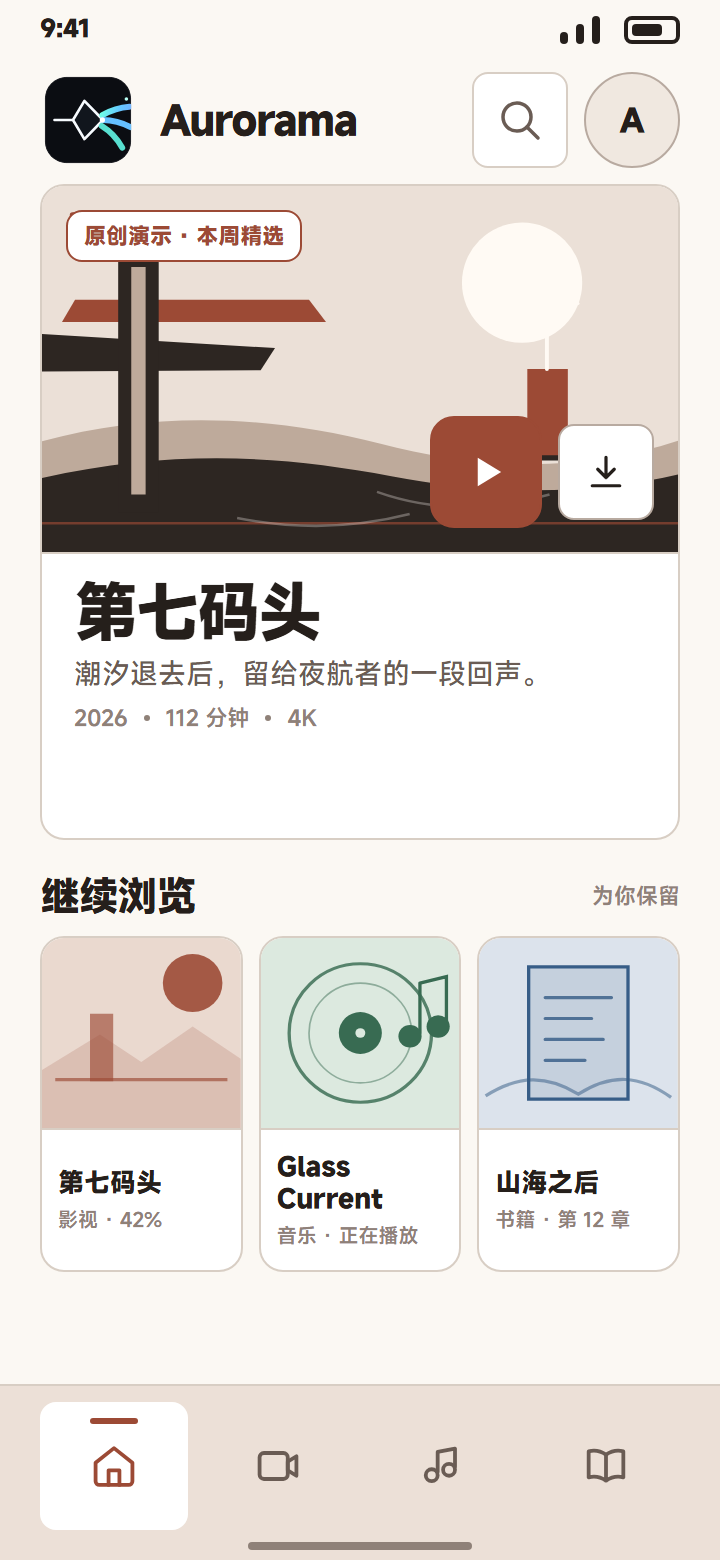
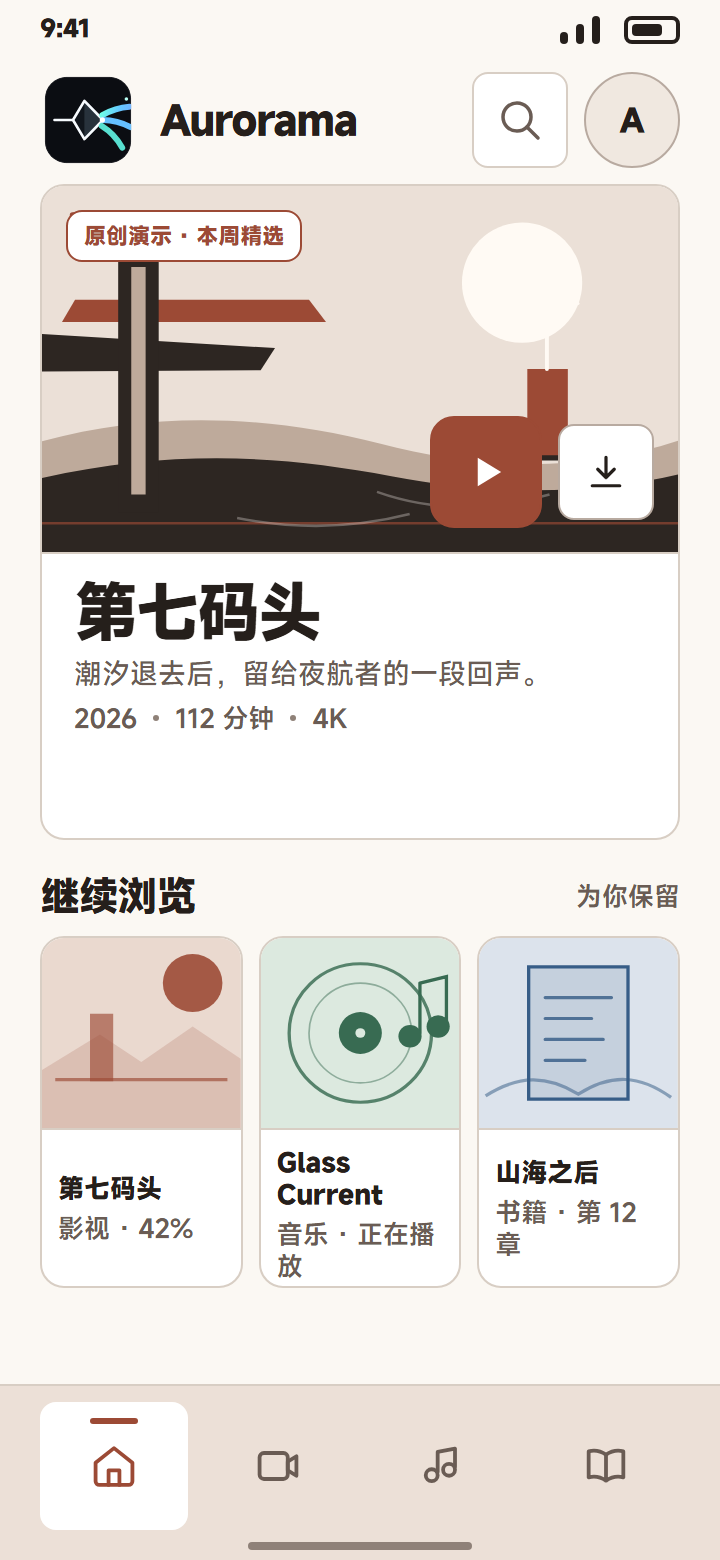
fix(v2-ux): resolve second visual qa findings

diff --git a/docs/design/v2-theme-frames/index.html b/docs/design/v2-theme-frames/index.html
@@ -56,6 +56,7 @@
       --text: #f2f5f9;
       --text-2: #98a2b3;
       --text-3: #6b7483;
+      --phone-nav-inactive: var(--text-2);
       --line: rgba(255, 255, 255, .085);
       --line-strong: rgba(255, 255, 255, .16);
       --accent: #5ce1d2;
@@ -237,6 +238,7 @@
       --text: #111317;
       --text-2: #4f5358;
       --text-3: #777b7e;
+      --phone-nav-inactive: #aeb3b8;
       --line: #111317;
       --line-strong: #111317;
       --accent: #c23c1c;
@@ -789,7 +791,10 @@
     }
 
     html[data-theme="nocturne"] .hero-title {
-      font-style: italic;
+      font-family: var(--font-sans);
+      font-style: normal;
+      font-weight: 700;
+      letter-spacing: -.04em;
     }
 
     .hero-description {
@@ -1769,8 +1774,8 @@
       align-items: center;
       gap: 8px;
       margin-top: 4px;
-      color: var(--text-3);
-      font-size: 11px;
+      color: var(--text-2);
+      font-size: 13px;
       line-height: 16px;
       font-weight: 500;
       white-space: nowrap;
@@ -1800,14 +1805,14 @@
     }
 
     .phone-section-head span {
-      color: var(--text-3);
-      font-size: 11px;
+      color: var(--text-2);
+      font-size: 13px;
       line-height: 16px;
       font-weight: 500;
     }
 
     .phone-media-row {
-      height: 168px;
+      height: 176px;
       display: grid;
       grid-template-columns: repeat(3, minmax(0, 1fr));
       gap: 8px;
@@ -1816,9 +1821,9 @@
 
     .phone-media-card {
       width: auto;
-      height: 168px;
+      height: 176px;
       min-width: 0;
-      min-height: 168px;
+      min-height: 176px;
       display: flex;
       flex-direction: column;
       overflow: hidden;
@@ -1871,15 +1876,15 @@
     }
 
     .phone-media-copy span {
-      display: block;
+      display: -webkit-box;
       overflow: hidden;
       margin-top: 4px;
-      color: var(--text-3);
-      font-size: 10px;
-      line-height: 14px;
+      color: var(--text-2);
+      font-size: 13px;
+      line-height: 16px;
       font-weight: 500;
-      text-overflow: ellipsis;
-      white-space: nowrap;
+      -webkit-box-orient: vertical;
+      -webkit-line-clamp: 2;
     }
 
     .phone-media-card.film { --domain: var(--film); }
@@ -1913,7 +1918,7 @@
       place-items: center;
       position: relative;
       border-radius: var(--radius-sm);
-      color: var(--text-2);
+      color: var(--phone-nav-inactive);
       background: transparent;
     }
 
@@ -2002,11 +2007,14 @@
         <rect x="8" y="8" width="144" height="144" rx="36"/>
       </clipPath>
 
+      <!-- Main Logo: use at >=48px. 33-47px is forbidden; use brand-mark-micro at 24-32px. -->
       <symbol id="brand-mark" viewBox="0 0 160 160">
         <g clip-path="url(#logo-card)">
           <rect x="8" y="8" width="144" height="144" rx="36" fill="#0B0D12"/>
           <path d="M24 80H73" stroke="#F7FBFF" stroke-width="4" stroke-linecap="round"/>
-          <path d="M74 48L105 80L74 112L55 80L74 48Z" fill="#11161D" stroke="#F7FBFF" stroke-width="4.4" stroke-linejoin="round"/>
+          <path d="M74 48L105 80L74 112L55 80L74 48Z" fill="#11161D"/>
+          <path d="M74 48L105 80L74 112Z" fill="#28323C"/>
+          <path d="M74 48L105 80L74 112L55 80L74 48Z" fill="none" stroke="#F7FBFF" stroke-width="4.4" stroke-linejoin="round"/>
           <path d="M104 72C118 64 133 59 149 58" stroke="url(#logo-aurora)" stroke-width="10" stroke-linecap="round"/>
           <path d="M105 80C122 80 136 84 151 92" stroke="#64BFFF" stroke-width="10" stroke-linecap="round"/>
           <path d="M103 90C116 98 127 108 137 126" stroke="#58DFD0" stroke-width="10" stroke-linecap="round"/>
@@ -2016,6 +2024,7 @@
         </g>
       </symbol>
 
+      <!-- Micro mark: use at 24-32px only; 33-47px is forbidden. -->
       <symbol id="brand-mark-micro" viewBox="0 0 64 64">
         <rect x="2" y="2" width="60" height="60" rx="15" fill="#0B0D12" stroke="#2D3239" stroke-width="2"/>
         <path d="M5 32H22" stroke="#F7FBFF" stroke-width="4" stroke-linecap="round"/>
@@ -2768,11 +2777,26 @@
         const phoneHeroTitle = document.querySelector(".phone-hero-title");
         const phoneHeroStyle = getComputedStyle(phoneHeroTitle);
         const firstFontFamily = phoneHeroStyle.fontFamily.split(",")[0].replaceAll('"', "").replaceAll("'", "").trim();
+        const wideHeroTitle = document.querySelector(".hero-title");
+        const wideHeroStyle = getComputedStyle(wideHeroTitle);
+        const wideFirstFontFamily = wideHeroStyle.fontFamily.split(",")[0].replaceAll('"', "").replaceAll("'", "").trim();
         document.documentElement.dataset.auditPhoneTitleFont = firstFontFamily;
         document.documentElement.dataset.auditPhoneTitleStyle = phoneHeroStyle.fontStyle;
         document.documentElement.dataset.auditNocturneTitlePass = String(
           key !== "nocturne" || (firstFontFamily === "MiSans" && phoneHeroStyle.fontStyle !== "italic")
         );
+        document.documentElement.dataset.auditWideTitleFont = wideFirstFontFamily;
+        document.documentElement.dataset.auditWideTitleStyle = wideHeroStyle.fontStyle;
+        document.documentElement.dataset.auditNocturneWideTitlePass = String(
+          key !== "nocturne" || (wideFirstFontFamily === "MiSans" && wideHeroStyle.fontStyle !== "italic")
+        );
+        const phoneSemanticSizes = [
+          ".phone-hero-meta",
+          ".phone-section-head span",
+          ".phone-media-copy span"
+        ].map((selector) => parseFloat(getComputedStyle(document.querySelector(selector)).fontSize));
+        document.documentElement.dataset.auditPhoneSemanticSizes = phoneSemanticSizes.join(",");
+        document.documentElement.dataset.auditPhoneNavInactiveColor = getComputedStyle(document.querySelectorAll(".phone-tab")[1]).color;
         document.documentElement.dataset.auditPhoneOverflow = String(phoneMain.scrollHeight > phoneMain.clientHeight + 1);
         document.documentElement.dataset.auditPhoneHeight = `${phoneMain.scrollHeight}/${phoneMain.clientHeight}`;
         document.documentElement.dataset.auditPhoneDisplay = getComputedStyle(phoneStage).display;

diff --git a/docs/design/v2-theme-frames/logo-proof.html b/docs/design/v2-theme-frames/logo-proof.html
@@ -1,6 +1,7 @@
 <!doctype html>
 <html lang="zh-CN">
 <head>
+  <!-- Logo size contract: 24-32px micro only; 33-47px forbidden; 48px and above master only. -->
   <meta charset="utf-8">
   <meta name="viewport" content="width=device-width, initial-scale=1">
   <title>Aurorama · Logo 清晰度验证</title>
@@ -211,7 +212,7 @@
   <main class="proof">
     <header class="head">
       <h1>Aurorama <em>Logo clarity</em></h1>
-      <p>保留“棱镜 + 极光帘幕”母题。主标是一个透视棱镜、一束入射光、三股连续光带与一个清晰分离微粒；24–32px 使用无粒子的专用 micro mark。</p>
+      <p>尺寸规则：24–32px 使用无粒子 micro mark；33–47px 禁止使用；48px 起使用带一个分离微粒的主标。主标是一枚带单折面的透视棱镜。</p>
     </header>
 
     <div class="body">
@@ -221,7 +222,7 @@
         </div>
         <div class="hero-copy">
           <strong id="hero-proof-title">主标志 · 288 px</strong>
-          <span>主标用于 ≥48px，保留一个清晰分离微粒；micro mark 只用于 24–32px。</span>
+          <span>主标仅用于 ≥48px；33–47px 禁用；24–32px 只用 micro mark。</span>
           <div class="footer-rule"><i aria-hidden="true"></i><span>极光渐变只存在于品牌标识，不进入手机页面。</span></div>
         </div>
       </section>
@@ -254,9 +255,16 @@
         width: image.getBoundingClientRect().width,
         height: image.getBoundingClientRect().height,
         complete: image.complete,
-        naturalWidth: image.naturalWidth
+        naturalWidth: image.naturalWidth,
+        src: image.getAttribute("src")
       }));
       document.documentElement.dataset.auditSizes = JSON.stringify(sizes);
+      document.documentElement.dataset.auditVariantMapping = String(sizes.every((image) => {
+        if (image.expected >= 24 && image.expected <= 32) return image.src === "aurorama-logo-micro.svg";
+        if (image.expected >= 33 && image.expected <= 47) return false;
+        if (image.expected >= 48) return image.src === "aurorama-logo.svg";
+        return false;
+      }));
       document.documentElement.dataset.auditOverflow = String(
         document.documentElement.scrollWidth > 1200 || document.documentElement.scrollHeight > 720
       );

diff --git a/docs/TASKS.md b/docs/TASKS.md
@@ -6,7 +6,7 @@
 
 | ID | 需求域 | 目标 | 依赖 | 当前退出条件 |
 |---|---|---|---|---|
-| `V2-REQ-UX` | 第二章 | 收敛视觉基线、结构、参考、Skill/MCP 和工作流要求 | `V2-REQ-ARCH` | 主题与 Logo / 图标决策已确认；首轮视觉 QA 问题已修复，状态为 `QA_FIXES_READY_FOR_RECHECK`；等待第二轮独立视觉 QA / 用户确认，确认后才扩展 G1，38 条需求矩阵仍待继续 |
+| `V2-REQ-UX` | 第二章 | 收敛视觉基线、结构、参考、Skill/MCP 和工作流要求 | `V2-REQ-ARCH` | 主题与 Logo / 图标决策已确认；第二轮视觉 QA FAIL 项已定向修复，状态为 `SECOND_QA_FIXES_READY_FOR_RECHECK`；`UI_DESIGN_SYSTEM` 尚未升 V2，等待下一轮独立视觉 QA / 用户确认后才扩展 G1，38 条需求矩阵仍待继续 |
 
 ## Review
 
